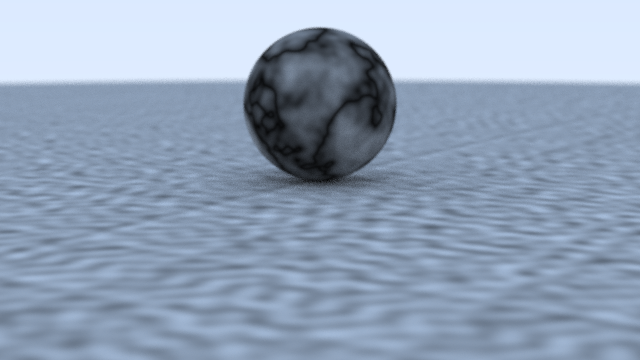
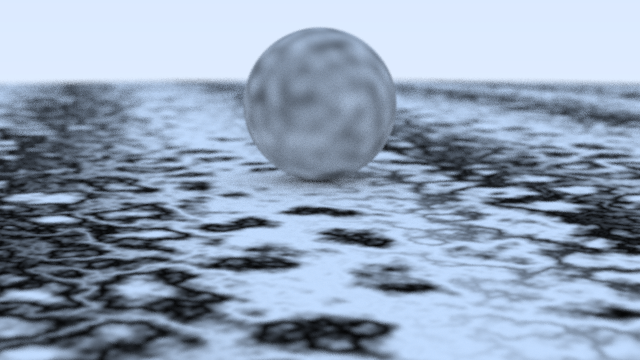
Turbulence

diff --git a/src/17_Noise/image.cpp b/src/17_Noise/image.cpp
@@ -36,9 +36,9 @@ hit_list generateScene() {
 	shared_ptr<texture> turb = make_shared<turbulanceColor>(1.0, 7);
 	shared_ptr<texture> noises = make_shared<perlinnoiseColor>(4.0);
 
-	shared_ptr<material> ground = make_shared<lambertian>(noises);
+	shared_ptr<material> ground = make_shared<lambertian>(turb);
 	world.add(make_shared<sphereobj>(point(0, -1000, 0), ground, 1000));
-	shared_ptr<material> mat1 = make_shared<lambertian>(turb);
+	shared_ptr<material> mat1 = make_shared<lambertian>(noises);
 	world.add(make_shared<sphereobj>(point(0, 1, 0), mat1, 1.0));
 	return world;
 }

diff --git a/lib/src/texture.cpp b/lib/src/texture.cpp
@@ -25,5 +25,5 @@ color turbulanceColor::value(double u, double v, const point& p) const {
 		temp_p *= 2;
 	}
 
-	return color(1,1,1) * fabs(accum);
+	return color(1,1,1) * 0.5 * (1 + sin(this->scale * p.z() + 10 * fabs(accum)));
 }
